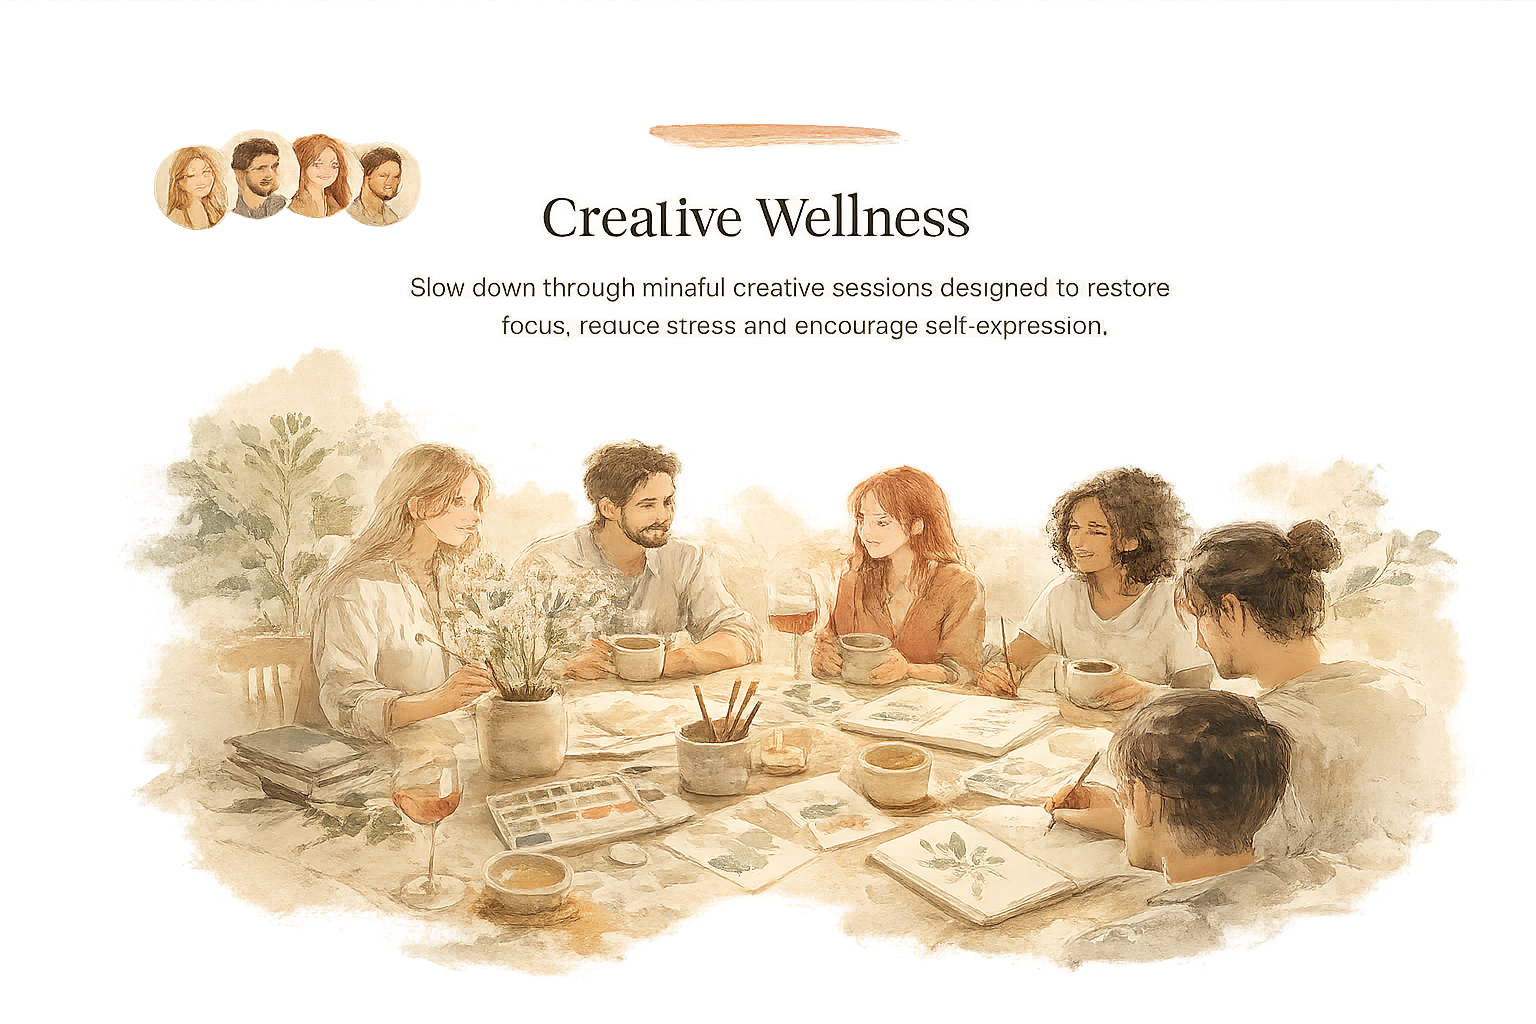
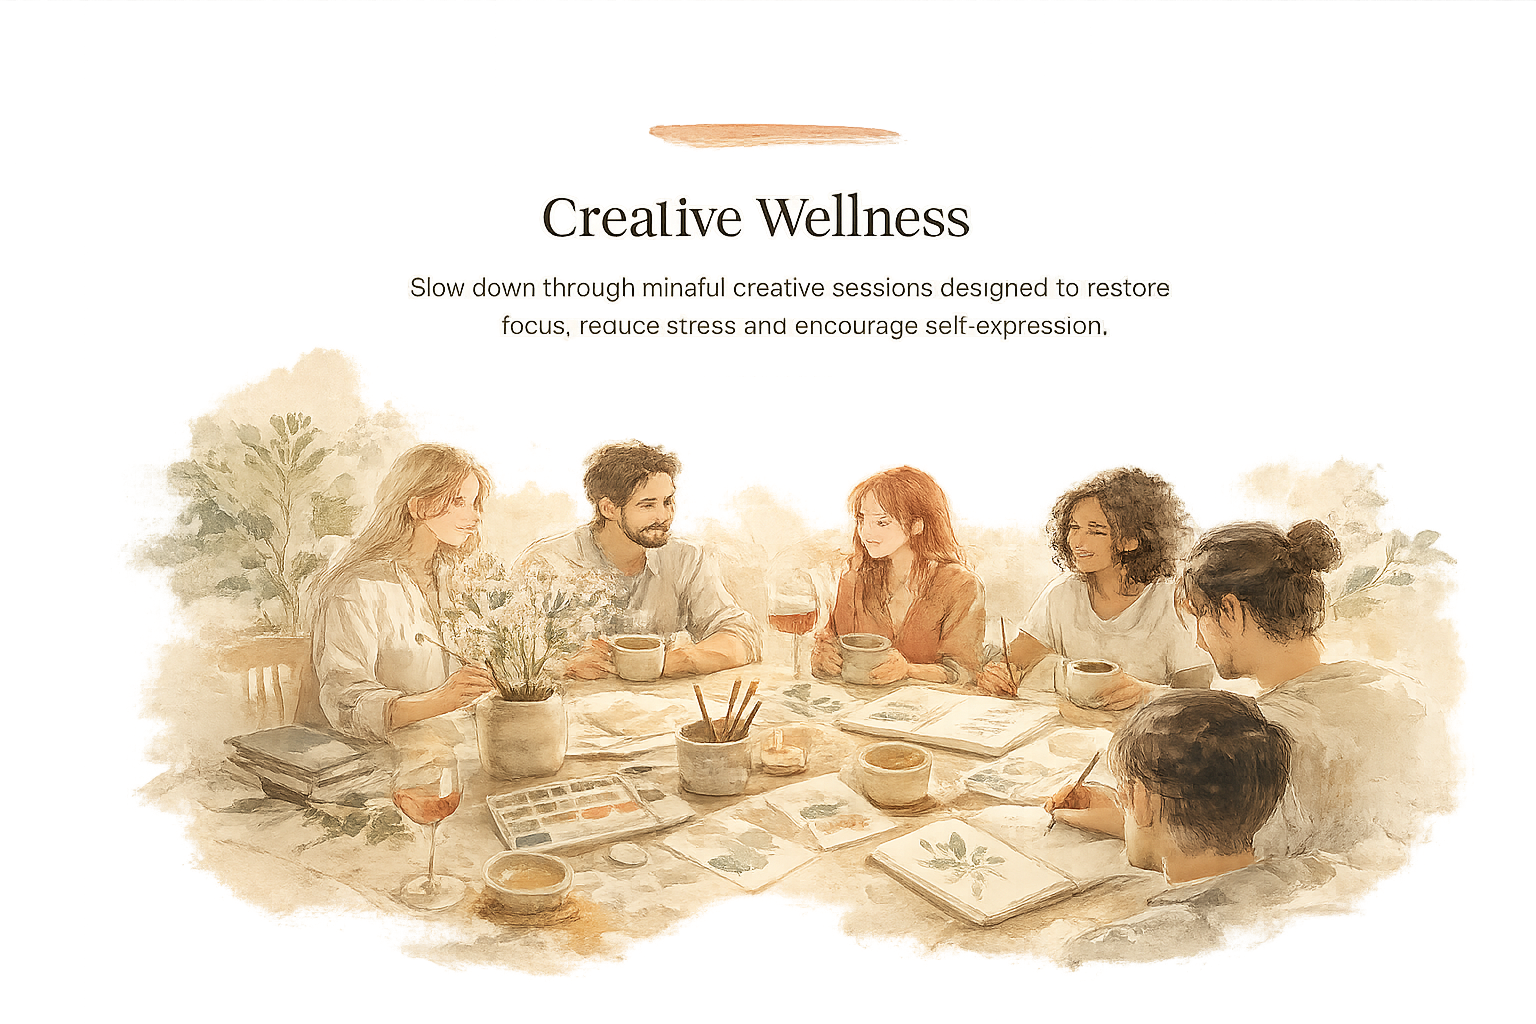
asd

Changed region(s): [[0.0938, 0.125, 0.2812, 0.2188]]

diff --git a/src/components/signature-experiences.tsx b/src/components/signature-experiences.tsx
@@ -30,7 +30,7 @@ const EXPERIENCES = [
     title: "Creative Memories",
     description:
       "Celebrate birthdays, bridal showers, anniversaries and meaningful milestones with beautifully curated creative experiences.",
-    image: "/hero-image.png",
+    image: "/ChatGPT Image Jul 26, 2026, 05_17_26 PM.png",
     reverse: true,
   },
 ];
